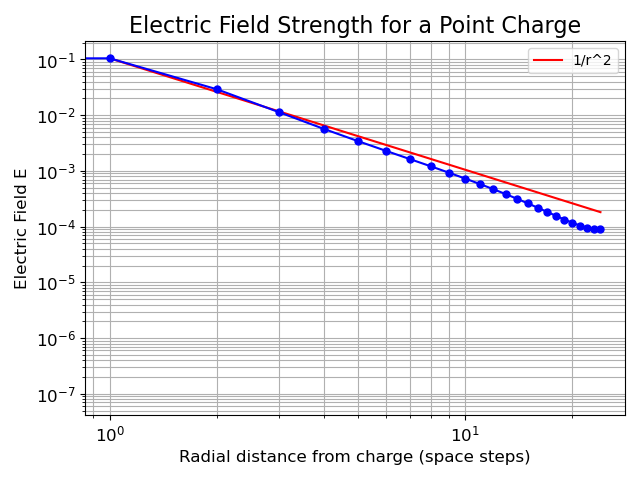
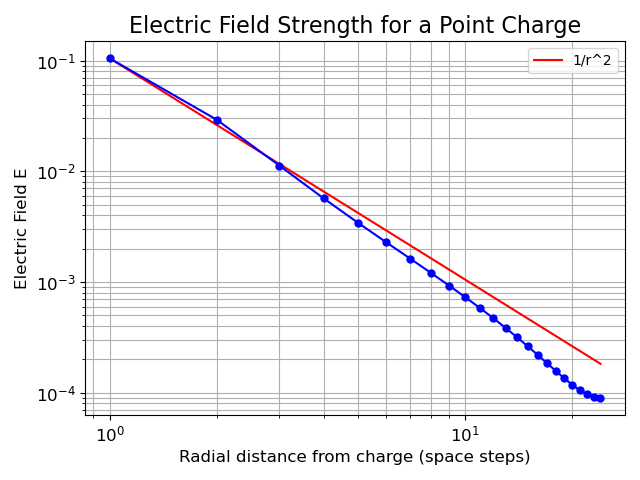
Ineffective tinkering with theoretical proportionality relations.

diff --git a/Checkpoint 3/Checkpoint 3 Poisson-Magnetic.py b/Checkpoint 3/Checkpoint 3 Poisson-Magnetic.py
@@ -165,11 +165,12 @@ class PoissonMagnetic:
         if self.J_str == "thinwire": 
             #If potential cylindrically symmetric, just need a single 1D cut
             cut = A_midplane.shape[0] // 2
-            radial = np.arange(A_midplane.shape[0] // 2)
-            potential_cut = A_midplane[cut, cut:] 
+            radial = np.arange(1, A_midplane.shape[0] // 2)
+            potential_cut = A_midplane[cut, cut+1:] 
+            print(radial)
 
-            #Potential should be ~ln(r)
-            fit = -potential_cut[1] * np.log(radial) + potential_cut[1]
+            #Fit potenti
+            fit = potential_cut[0] * (1 - np.log(radial)/np.log(radial[2]))
 
             plt.plot(radial, fit, markersize = 0, color = "red", label = "ln(r)")
             plt.plot(radial, potential_cut, markersize = 5, marker = "o", color = "blue")
@@ -179,6 +180,7 @@ class PoissonMagnetic:
             plt.title(f"Magnetic Potential for a Thin Wire", fontsize = 16)
             plt.tick_params(axis = "both", labelsize = 12)
             plt.xscale("log")
+            plt.yscale("log")
             plt.tight_layout()
             plt.legend()
             plt.savefig(f"Magneticpotentialrad.png")
@@ -219,7 +221,7 @@ class PoissonMagnetic:
         #B-field_magnitude
         B_size = np.sqrt(B_x_midplane**2 + B_y_midplane**2)
 
-        plt.quiver(B_y_midplane, B_x_midplane, scale = 0.5)
+        plt.quiver(B_y_midplane, B_x_midplane, scale = 2)
         plt.title(f"Discretised Magnetic Field", fontsize = 16)
         plt.savefig(f"Bfield.png")
         plt.show()
@@ -235,11 +237,11 @@ class PoissonMagnetic:
         if self.J_str == "thinwire": 
             #If potential spherically symmetric, just need a single 1D cut
             cut = B_size.shape[0] // 2
-            radial = np.arange(B_size.shape[0] // 2)
-            bfield_cut = B_size[cut, cut:] 
+            radial = np.arange(1, B_size.shape[0] // 2)
+            bfield_cut = B_size[cut, cut+1:] 
 
             #magnetic field should be 1/r
-            fit = bfield_cut[1]/radial
+            fit = bfield_cut[0]/radial
 
             plt.plot(radial, fit, markersize = 0, color = "red", label = "1/r")
             plt.plot(radial, bfield_cut, markersize = 5, marker = "o", color = "blue")
@@ -248,6 +250,8 @@ class PoissonMagnetic:
             plt.ylabel(r"Magnetic Field B", fontsize = 12)
             plt.title(f"Magnetic Field Strength for a Thin Wire", fontsize = 16)
             plt.tick_params(axis = "both", labelsize = 12)
+            plt.xscale("log")
+            plt.yscale("log")
             plt.tight_layout()
             plt.legend()
             plt.savefig(f"magneticfieldrad.png")

diff --git a/Checkpoint 3/Checkpoint 3 Poisson-Electric.py b/Checkpoint 3/Checkpoint 3 Poisson-Electric.py
@@ -167,11 +167,11 @@ class PoissonElectric:
         if self.rho_str == "monopole":
             #If potential spherically symmetric, just need a single 1D cut
             cut = phi_midplane.shape[0] // 2
-            radial = np.arange(phi_midplane.shape[0] // 2)
-            potential_cut = phi_midplane[cut, cut:] 
+            radial = np.arange(1, phi_midplane.shape[0] // 2)
+            potential_cut = phi_midplane[cut, cut+1:] 
 
             #Potential should be ~1/r
-            fit = potential_cut[1]/radial
+            fit = potential_cut[0]/radial
 
             plt.plot(radial, fit, markersize = 0, color = "red", label = "1/r")
             plt.plot(radial, potential_cut, markersize = 5, marker = "o", color = "blue")
@@ -238,11 +238,11 @@ class PoissonElectric:
         if self.rho_str == "monopole":
             #If potential spherically symmetric, just need a single 1D cut
             cut = E_size.shape[0] // 2
-            radial = np.arange(E_size.shape[0] // 2)
-            efield_cut = E_size[cut, cut:] 
+            radial = np.arange(1, E_size.shape[0] // 2)
+            efield_cut = E_size[cut, cut+1:] 
 
             #Electric field should be 1/r^2
-            fit = efield_cut[1]/(radial**2)
+            fit = efield_cut[0]/(radial**2)
 
             plt.plot(radial, fit, markersize = 0, color = "red", label = "1/r^2")
             plt.plot(radial, efield_cut, markersize = 5, marker = "o", color = "blue")

diff --git a/Checkpoint 3/Checkpoint 3 Cahn-Hilliard.py b/Checkpoint 3/Checkpoint 3 Cahn-Hilliard.py
@@ -4,7 +4,6 @@ from matplotlib.animation import FuncAnimation as animate
 import argparse
 import time
 from numba import njit
-from joblib import Parallel, delayed
 
 class CahnHilliard:
     """Determine the numerical solution for the Cahn-Hilliard equation"""
